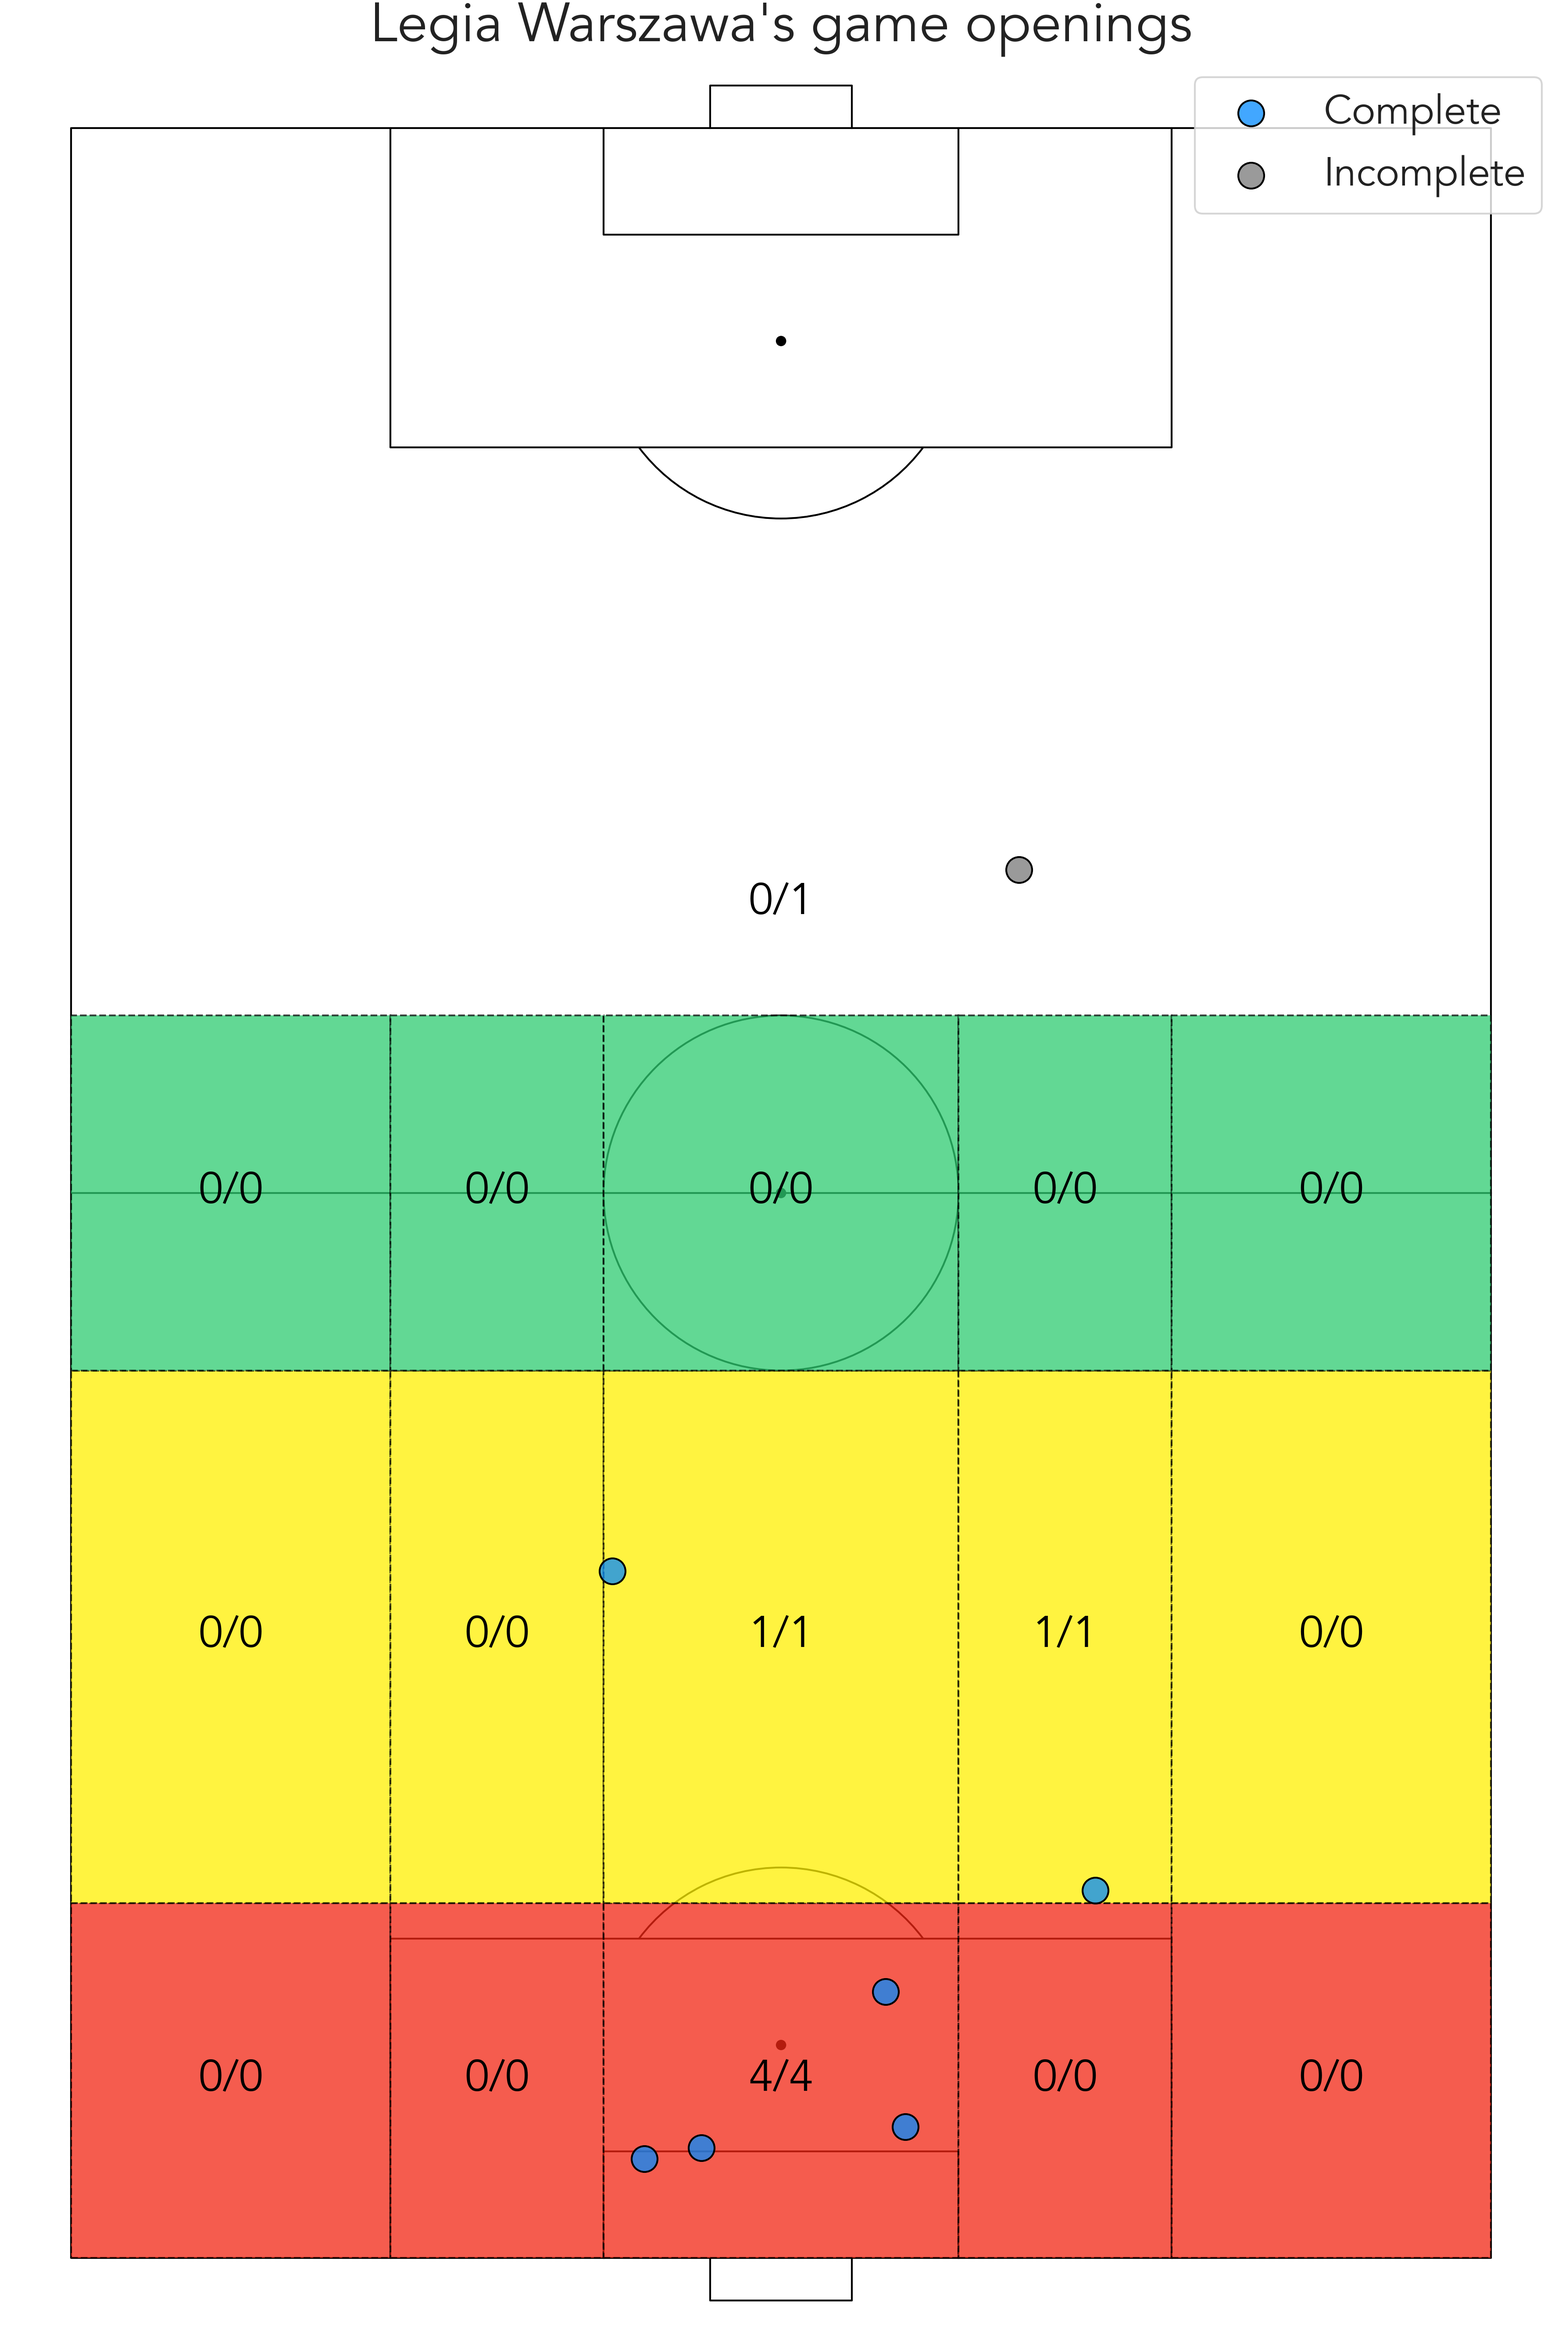
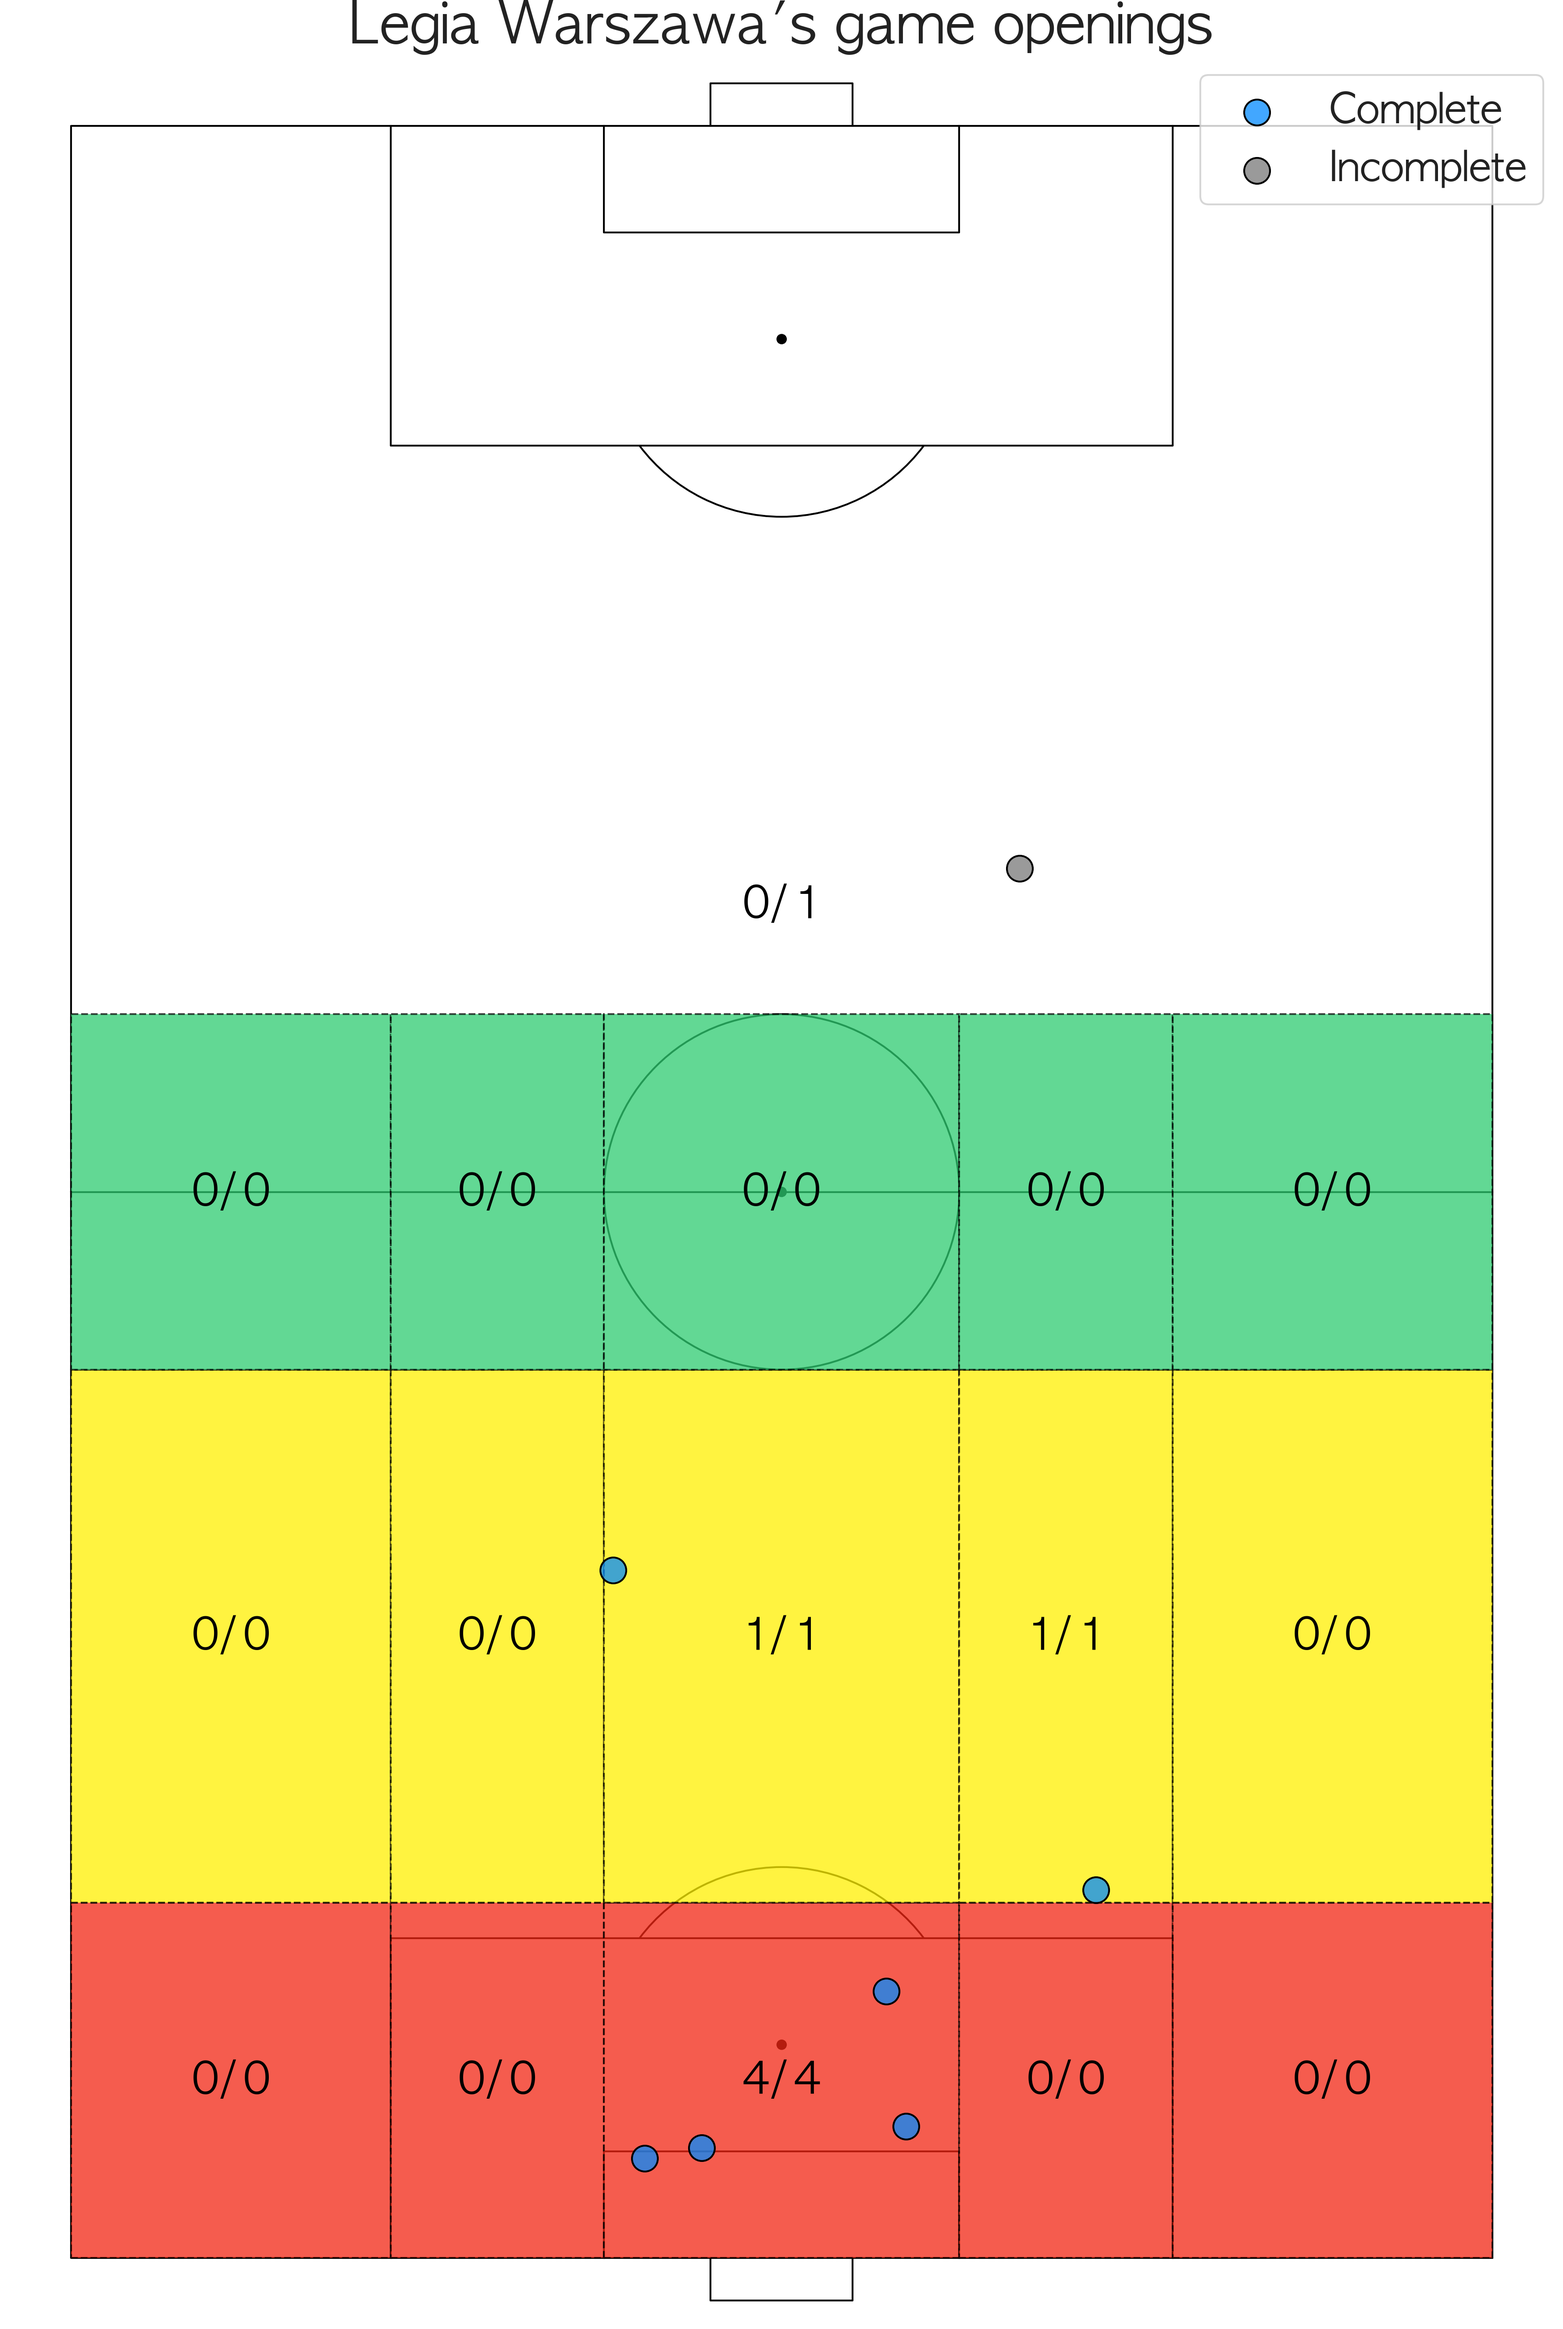
change req

diff --git a/constants.py b/constants.py
@@ -45,7 +45,7 @@ class Constants:
         "sbred": "#E21017",
     }
 
-    FONT = "Avenir"
+    FONT = "AppleGothic"#"Avenir"
     STREAMLIT_COLOR = '#0E1117'
     TEXT_COLOR = '#222222'
     BACKGROUND_COLOR = '#d4af37'
